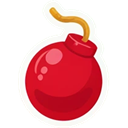
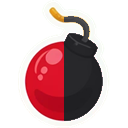
Бомба наполовину красная, наполовину чёрная — выделяется на поле

Changed region(s): [[0.5, 0.125, 0.8125, 0.9688]]

diff --git a/AGENTS.md b/AGENTS.md
@@ -105,7 +105,7 @@ npm run simulate   # бот играет партии и считает очки
   ракета — из покупки и из линии 4 ячеек 2 уровня; манипулятор — только из покупки; мега-бомба — из совпадений
   5+ ячеек 2 уровня и 3 ячеек 3 уровня; радуга — из покупки и из совпадений 4+ ячеек 3 уровня.
 
-Все спецфишки рисуются картинками (`public/assets/pieces/<тип>.png`): бомба — красная бомба,
+Все спецфишки рисуются картинками (`public/assets/pieces/<тип>.png`): бомба — бомба наполовину красная, наполовину чёрная (чтобы не путалась с красными фишками и мега-бомбой),
 мега-бомба — чёрная, манипулятор — стрелки обмена, радуга — цветное кольцо, ракета — ракета
 (по столбцу стоит вертикально, по строке — повёрнута набок).
 
